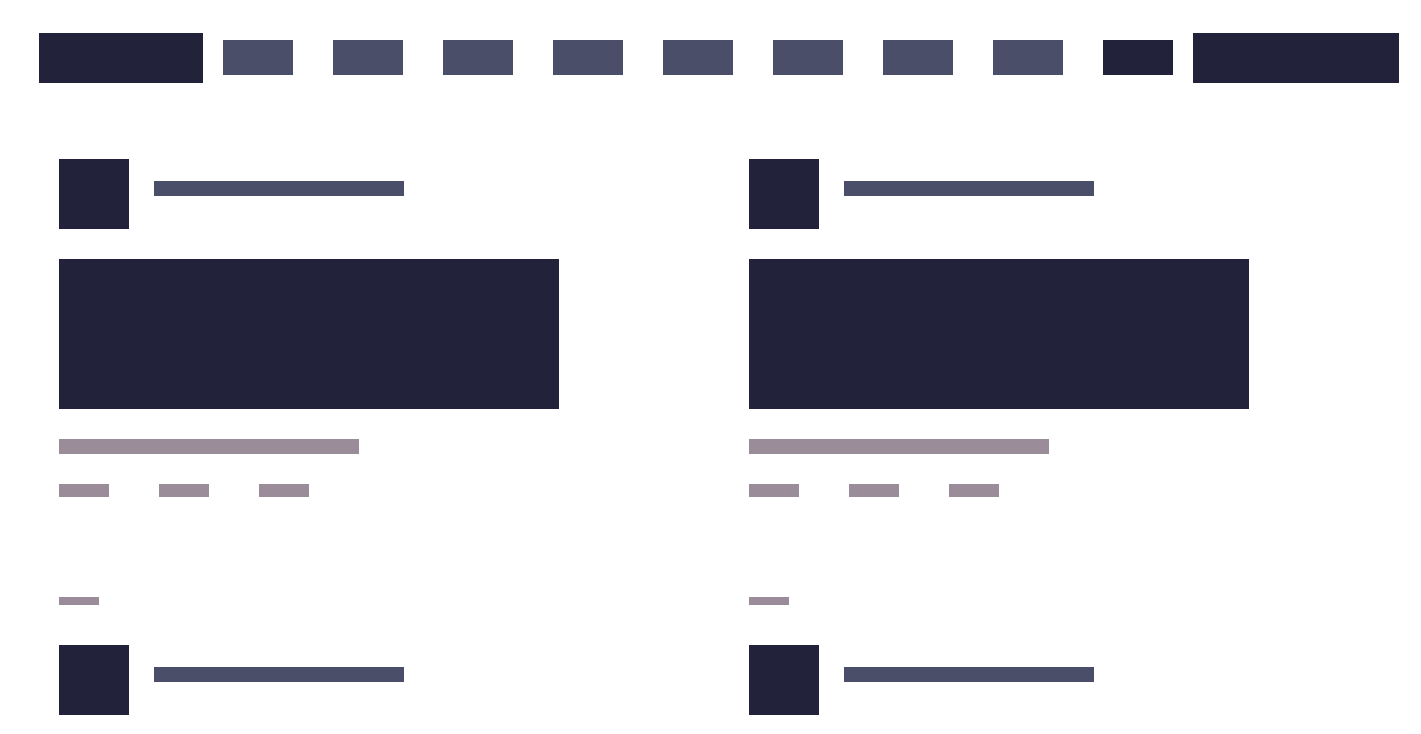
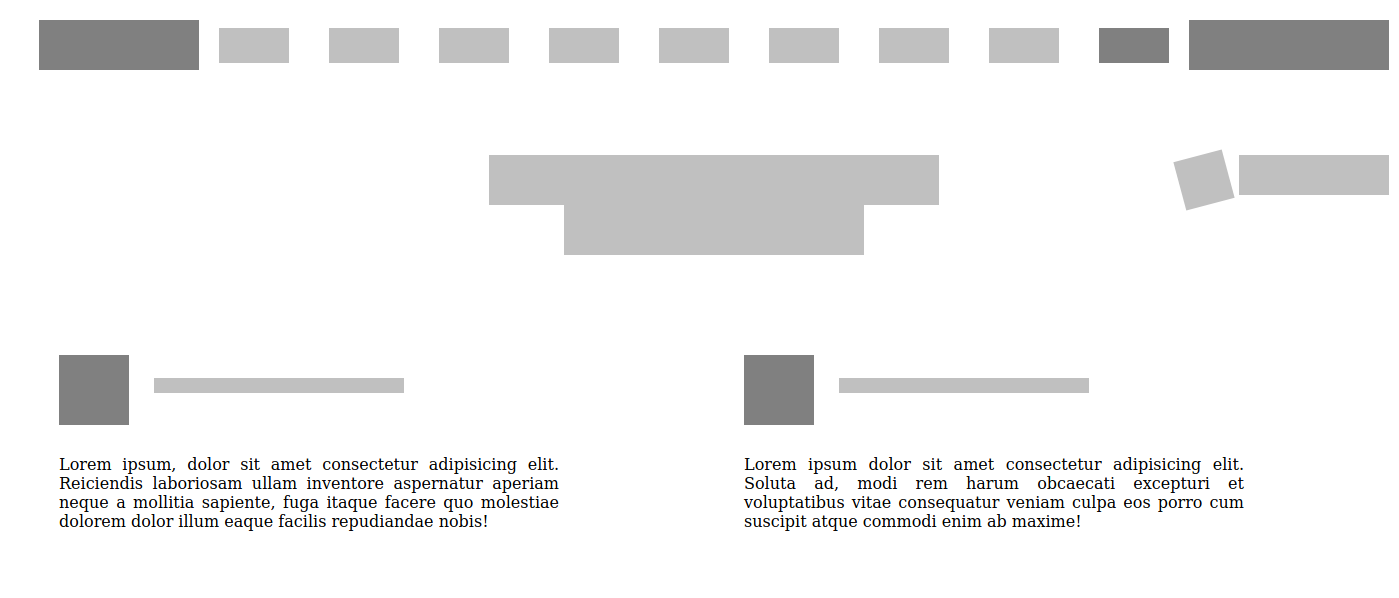
added new article tags, changed footer links to anchor tags, added top part of page, updated screenshot for README

diff --git a/index.html b/index.html
@@ -29,7 +29,21 @@
     </div>
   </header>
   <main>
-    <section class="section-padding grid-4">
+    <div class="page-top d-flex flex-vertical">
+
+      <div class="wrapper-btn-right d-flex">
+        <div class="right-btn-top bg-medium">
+        </div>
+        <div class="right-btn-top-2 bg-medium">
+        </div>
+      </div>
+
+      <div class="articles-heading bg-medium"></div>
+      <div class="articles-heading-2 bg-medium"></div>
+      
+    </div>
+
+    <article class="section-padding grid-4">
       <article class="article flex-vertical">
         <div class="article-head d-flex">
           <div class="profile-pic bg-dark">
@@ -115,7 +129,7 @@
         <div class="bottom-arrow bg-light">
         </div>
       </article>
-    </section>
+    </article>
 
     <section class="member-banner-section">
       <div class="member-banner-heading bg-medium">
@@ -165,7 +179,7 @@
       </article>
     </article>
 
-    <section class="section-padding grid-3 d-flex">
+    <article class="section-padding grid-3 d-flex">
       <div class="shopify-sqr d-flex flex-vertical">
         <div class="shopify-logo bg-dark">
         </div>
@@ -197,7 +211,7 @@
         <div class="bottom-arrow bg-light"></div>
       </article>
 
-    </section>
+    </article>
 
     <article class="section-padding grid-3">
       <article class="flex-vertical">
@@ -249,7 +263,7 @@
     <section class="meet-click-section d-flex flex-vertical">
       <div class="meet-click-date bg-light"></div>
       <div class="meet-click-title">
-        <p class="mid-size bg-white">Lorem ipsum dolor sit amet consectetur adipisicing elit. Odit iste quia cum nobis aliquam voluptatibus molestiae sint dolores sequi expedita, quas nesciunt quaerat totam enim deleniti impedit perferendis iure non.</p>
+        <p class="mid-size bg-white">Lorem ipsum dolor sit amet consectetur adipisicing elit. Odit iste quia cum nobis aliquam voluptatibus molestiae sint dolores sequi expedita, quas nesciunt quaerat totam enim deleniti impedit</p>
       </div>
       <div class="meet-click-message bg-medium"></div>
       <div class="meet-click-btn">
@@ -258,7 +272,7 @@
       <div class="meet-click-img bg-dark"></div>
     </section>
 
-    <section class="more-articles-section section-padding d-flex flex-vertical">
+    <article class="more-articles-section section-padding d-flex flex-vertical">
       <div class="week-person d-flex">
         <div class="week-person-img bg-dark">
         </div>
@@ -270,7 +284,7 @@
         </div>
       </div>
 
-      <div class="more-articles-grid grid-6">
+      <article class="more-articles-grid grid-6">
         <article class="d-flex">
           <div class="profile-pic bg-medium"></div>
           <div class="more-articles-div d-flex flex-vertical">
@@ -339,8 +353,8 @@
             <div class="more-articles-text bg-medium"></div>
           </div>
         </article>
-      </div>
-    </section>
+      </article>
+    </article>
 
     <div class="between-divs bg-medium"></div>
 
@@ -363,9 +377,9 @@
 
     </section>
 
-    <section class="section-padding grid-2">
+    <article class="section-padding grid-2">
 
-      <div class="d-flex wrapper-div">
+      <article class="d-flex wrapper-div">
         <article class="flex-vertical div-width">
           <div class="guide bg-light"></div>
           <div class="guide-title">
@@ -382,9 +396,9 @@
           <div class="guide-text bg-light"></div>
           <div class="guide-btn bg-medium"></div>
         </article>
-      </div>
+      </article>
 
-      <div class="d-flex wrapper-div">
+      <article class="d-flex wrapper-div">
         <article class="flex-vertical div-width">
           <div class="guide bg-light"></div>
           <div class="guide-title">
@@ -396,7 +410,7 @@
         <div class="smashing-news d-flex flex-vertical div-width">
           <div class="smashing-news-img bg-dark"></div>
           <div class="smashing-newsletters">
-            <p class="mid-size bg-white">Lorem ipsum dolor, sit amet consectetur orem ipsum dolor, sit.</p>
+            <p class="mid-size bg-white">Lorem ipsum dolor, sit amet consectetur.</p>
           </div>
           <div class="smashing-news-message bg-medium"></div>
           <div class="smashing-news-btn">
@@ -404,9 +418,9 @@
           </div>
           <div class="smashing-news-signin bg-light"></div>
         </div>
-      </div>
+      </article>
 
-    </section>
+    </article>
     <div class="between-divs bg-medium"></div>
   </main>
   <footer class="smashing-footer d-flex flex-vertical">
@@ -414,41 +428,41 @@
     <div class="footer-heading bg-medium"></div>
 
     <div class="d-flex">
-      <div class="footer-links bg-dark"></div>
-      <div class="footer-links bg-dark"></div>
-      <div class="footer-links bg-dark"></div>
-      <div class="footer-links bg-dark"></div>
-      <div class="footer-links bg-dark"></div>
-      <div class="footer-links bg-dark"></div>
-      <div class="footer-links bg-dark"></div>
-      <div class="footer-links bg-dark"></div>
-      <div class="footer-links bg-dark"></div>
-      <div class="footer-links bg-dark"></div>
+      <a href="#" class="footer-links bg-dark"></a>
+      <a href="#" class="footer-links bg-dark"></a>
+      <a href="#" class="footer-links bg-dark"></a>
+      <a href="#" class="footer-links bg-dark"></a>
+      <a href="#" class="footer-links bg-dark"></a>
+      <a href="#" class="footer-links bg-dark"></a>
+      <a href="#" class="footer-links bg-dark"></a>
+      <a href="#" class="footer-links bg-dark"></a>
+      <a href="#" class="footer-links bg-dark"></a>
+      <a href="#" class="footer-links bg-dark"></a>
     </div>
 
     <div class="d-flex">
-      <div class="footer-links bg-dark"></div>
-      <div class="footer-links bg-dark"></div>
-      <div class="footer-links bg-dark"></div>
-      <div class="footer-links bg-dark"></div>
-      <div class="footer-links bg-dark"></div>
-      <div class="footer-links bg-dark"></div>
-      <div class="footer-links bg-dark"></div>
-      <div class="footer-links bg-dark"></div>
-      <div class="footer-links bg-dark"></div>
+      <a href="#" class="footer-links bg-dark"></a>
+      <a href="#" class="footer-links bg-dark"></a>
+      <a href="#" class="footer-links bg-dark"></a>
+      <a href="#" class="footer-links bg-dark"></a>
+      <a href="#" class="footer-links bg-dark"></a>
+      <a href="#" class="footer-links bg-dark"></a>
+      <a href="#" class="footer-links bg-dark"></a>
+      <a href="#" class="footer-links bg-dark"></a>
+      <a href="#" class="footer-links bg-dark"></a>
     </div>
 
     <div class="d-flex">
-      <div class="footer-links bg-dark"></div>
-      <div class="footer-links bg-dark"></div>
-      <div class="footer-links bg-dark"></div>
-      <div class="footer-links bg-dark"></div>
-      <div class="footer-links bg-dark"></div>
-      <div class="footer-links bg-dark"></div>
-      <div class="footer-links bg-dark"></div>
-      <div class="footer-links bg-dark"></div>
-      <div class="footer-links bg-dark"></div>
-      <div class="footer-links bg-dark"></div>
+      <a href="#" class="footer-links bg-dark"></a>
+      <a href="#" class="footer-links bg-dark"></a>
+      <a href="#" class="footer-links bg-dark"></a>
+      <a href="#" class="footer-links bg-dark"></a>
+      <a href="#" class="footer-links bg-dark"></a>
+      <a href="#" class="footer-links bg-dark"></a>
+      <a href="#" class="footer-links bg-dark"></a>
+      <a href="#" class="footer-links bg-dark"></a>
+      <a href="#" class="footer-links bg-dark"></a>
+      <a href="#" class="footer-links bg-dark"></a>
     </div>
     <div class="d-flex">
       <div class="footer-links bg-dark"></div>
@@ -462,16 +476,16 @@
     <div class="footer-info-4 info-margin info-height bg-light"></div>
 
     <div class="d-flex">
-      <div class="smash-links info-height bg-medium"></div>
-      <div class="smash-links info-height bg-medium"></div>
-      <div class="smash-links info-height bg-medium"></div>
-      <div class="smash-links info-height bg-medium"></div>
+      <a href="#" class="smash-links info-height bg-medium"></a>
+      <a href="#" class="smash-links info-height bg-medium"></a>
+      <a href="#" class="smash-links info-height bg-medium"></a>
+      <a href="#" class="smash-links info-height bg-medium"></a>
     </div>
 
     <div class="d-flex">
-      <div class="smash-links info-height bg-medium"></div>
-      <div class="smash-links info-height bg-medium"></div>
-      <div class="smash-links info-height bg-medium"></div>
+      <a class="smash-links info-height bg-medium"></a>
+      <a class="smash-links info-height bg-medium"></a>
+      <a class="smash-links info-height bg-medium"></a>
     </div>
 
     <div class="footer-corner-btn bg-medium">

diff --git a/assets/css/style.css b/assets/css/style.css
@@ -95,6 +95,42 @@
   height: 50px;
 }
 
+/* ------ Top page -------- */
+
+.page-top {
+  margin: 60px 0;
+  position: relative;
+}
+
+.articles-heading {
+  width: 450px;
+  height: 50px;
+  align-self: center;
+}
+
+.articles-heading-2 {
+  width: 300px;
+  height: 50px;
+  align-self: center;
+}
+
+.right-btn-top {
+  width: 50px;
+  height: 50px;
+  margin-right: 10px;
+  transform: rotate(-15deg);
+}
+
+.right-btn-top-2 {
+  width: 150px;
+  height: 40px;
+}
+
+.wrapper-btn-right {
+  position: absolute;
+  right: 40px;
+}
+
 /* --------- First Section - 4 Articles */
 
 .article-head {
@@ -546,8 +582,9 @@
 
 .footer-corner-btn:hover,
 .brand-char:hover,
-.design-img:hover {
+.design-img:hover,
+.right-btn-top:hover {
   transform: none;
-  transition: 0.3s;
+  transition: 0.4s;
   cursor: pointer;
 }
